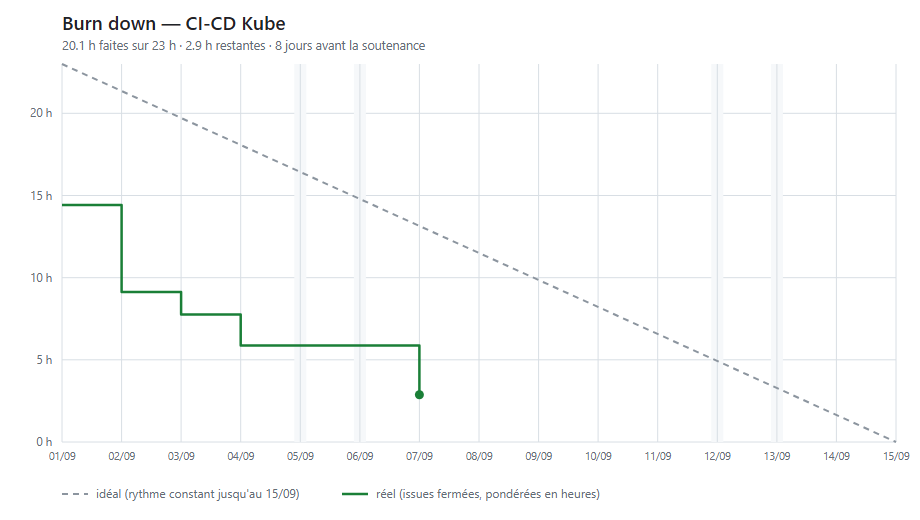
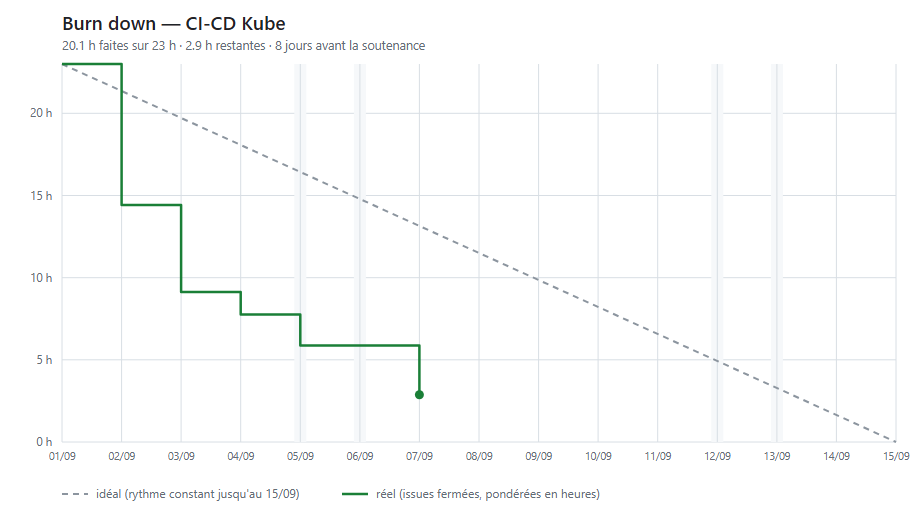
fix: fait partir la courbe reelle du total au 01/09
Le point du jour etait le reste en fin de journee, la courbe demarrait donc
a 14,5 h alors que l'ideal partait de 23 h. On trace le reste au matin, plus
un point final pour le reste actuel. Les issues fermees avant START sont
desormais rattachees au premier jour au lieu d'etre ignorees.

Changed region(s): [[0.0609, 0.0923, 0.3348, 0.6769]]

diff --git a/scripts/burndown.py b/scripts/burndown.py
@@ -59,6 +59,7 @@ def serie_reelle(data, poids):
     for i in data:
         if i["closedAt"]:
             d = datetime.fromisoformat(i["closedAt"].replace("Z", "+00:00")).date()
+            d = max(d, START)
             fermees.setdefault(d, 0.0)
             fermees[d] += poids.get(i["number"], 0.0)
 
@@ -66,9 +67,13 @@ def serie_reelle(data, poids):
     serie, reste = [], total
     j = START
     while j <= aujourdhui:
-        reste -= fermees.get(j, 0.0)
+        # le point du jour j vaut le reste au matin : la courbe part donc du
+        # total, comme la droite ideale, et chaque journee se lit comme une
+        # marche descendante.
         serie.append((j, round(reste, 3)))
+        reste -= fermees.get(j, 0.0)
         j += timedelta(days=1)
+    serie.append((aujourdhui, round(reste, 3)))
     return total, serie
 
 
